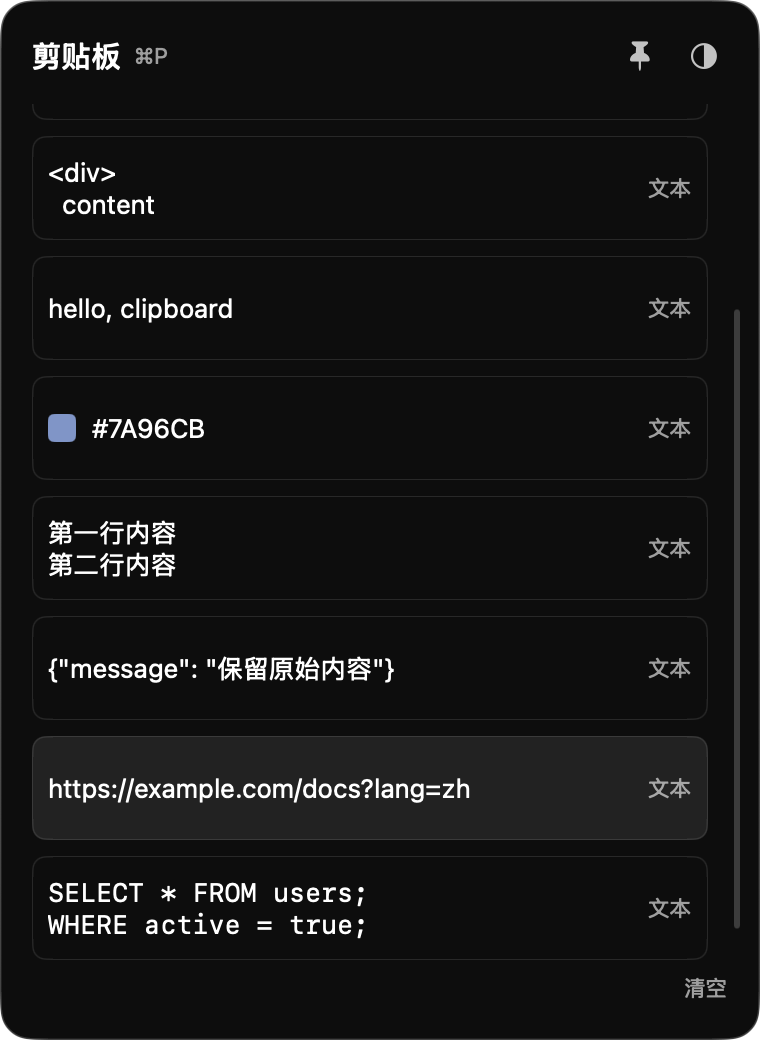
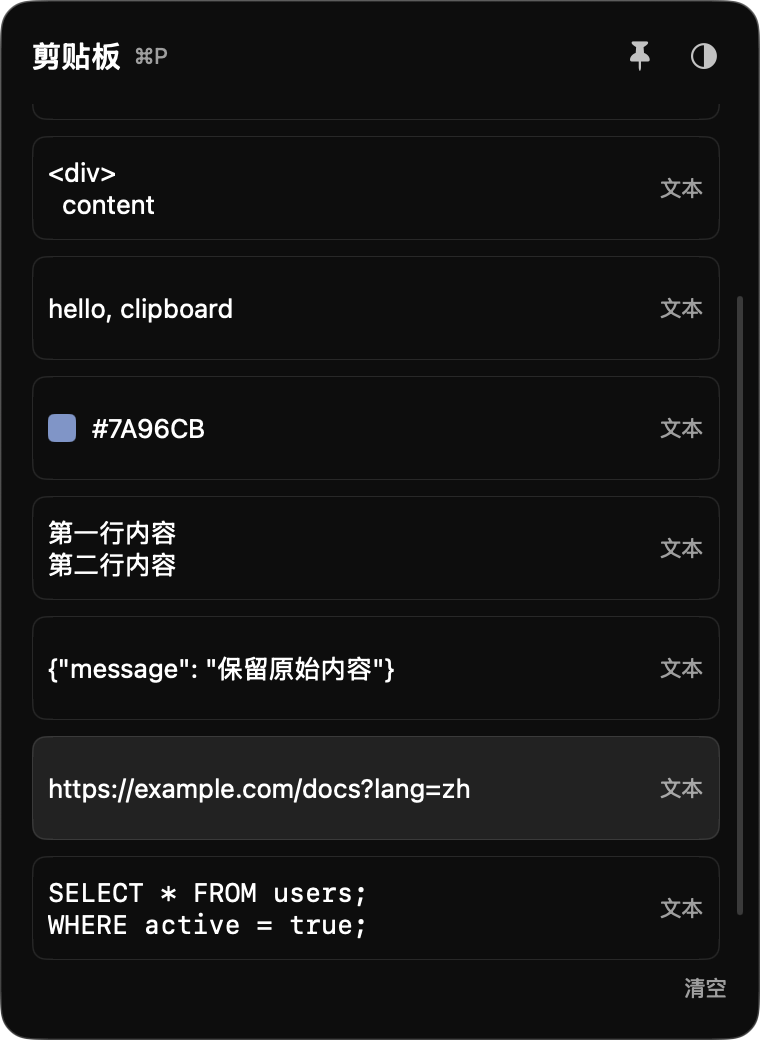
T2.3 加宽剪贴板条目并将滚动条居中于右侧留白

Changed region(s): [[0.8474, 0.2769, 0.9987, 0.8923], [0.8474, 0.1538, 0.9382, 0.2154], [0.8474, 0.2769, 0.9382, 0.3077]]

diff --git a/Sources/DevBar/App/ReadOnlyScrollView.swift b/Sources/DevBar/App/ReadOnlyScrollView.swift
@@ -5,6 +5,7 @@ import SwiftUI
 struct ReadOnlyScrollView<Content: View>: View {
   let scheme: ColorScheme
   var contentTrailingInset: CGFloat = 10
+  var indicatorTrailingInset: CGFloat = 2
   @ViewBuilder let content: () -> Content
   @State private var metrics = Metrics()
   @State private var visible = false
@@ -42,7 +43,7 @@ struct ReadOnlyScrollView<Content: View>: View {
         {
           Capsule().fill(DesignTokens.scrollThumb(scheme))
             .frame(width: 3, height: thumb.length)
-            .offset(x: -2, y: thumb.position)
+            .offset(x: -indicatorTrailingInset, y: thumb.position)
             .opacity(visible ? 1 : 0)
             .animation(.easeOut(duration: 0.25), value: visible)
             .allowsHitTesting(false)

diff --git a/Sources/DevBar/Clipboard/ClipboardListView.swift b/Sources/DevBar/Clipboard/ClipboardListView.swift
@@ -19,7 +19,9 @@ struct ClipboardListView: View {
           .frame(maxWidth: .infinity, maxHeight: .infinity)
       } else {
         ScrollViewReader { proxy in
-          ReadOnlyScrollView(scheme: scheme, contentTrailingInset: 18) {
+          ReadOnlyScrollView(
+            scheme: scheme, contentTrailingInset: 12, indicatorTrailingInset: 0.5
+          ) {
             LazyVStack(spacing: 8) {
               ForEach(Array(controller.items.enumerated()), id: \.element.id) { index, item in
                 ClipboardRow(controller: controller, item: item, index: index, scheme: scheme)
